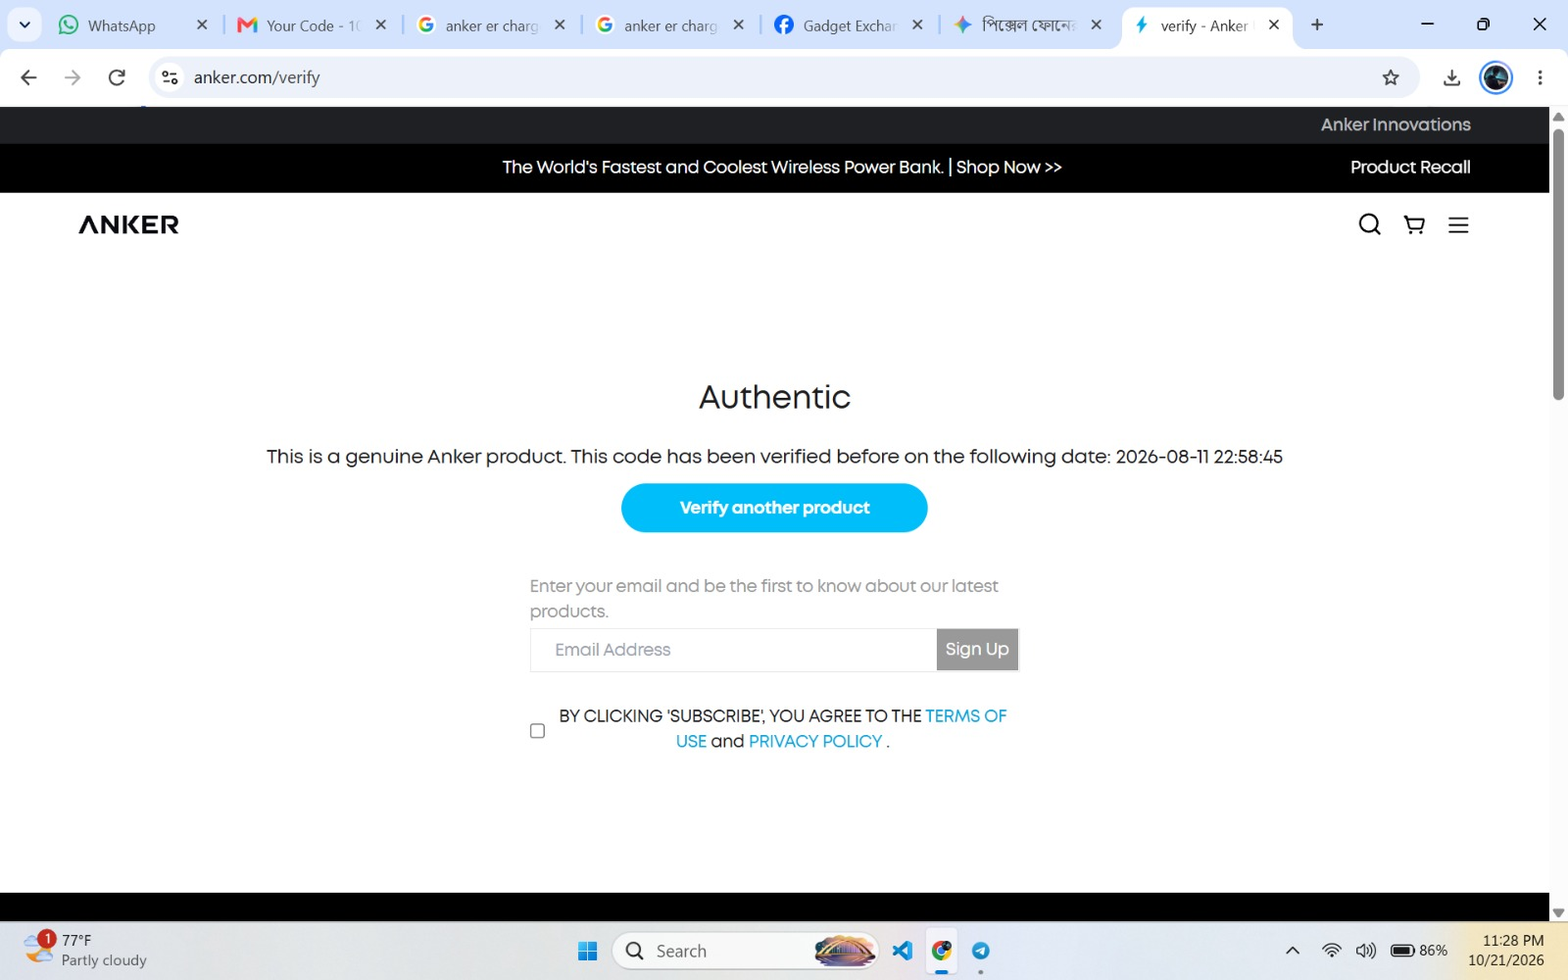
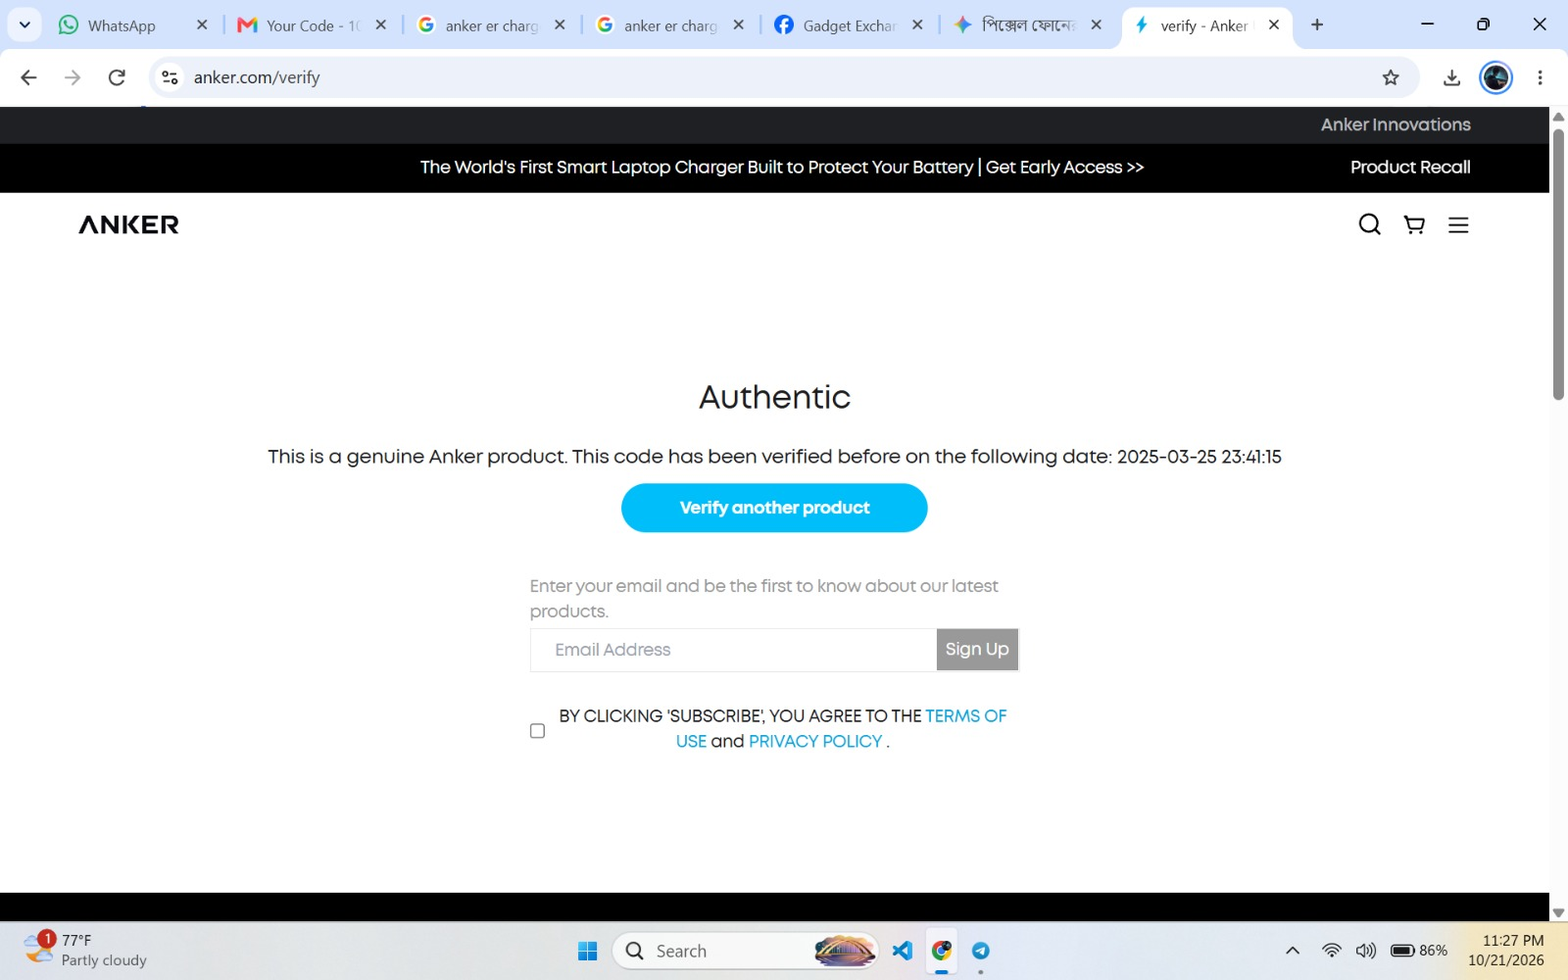
Crop photos, fix swapped Anker screenshots, add what the shop claimed

Changed region(s): [[0.1875, 0.434, 0.8125, 0.496], [0.2812, 0.155, 0.7188, 0.186]]

diff --git a/README.md b/README.md
@@ -1,14 +1,21 @@
 # Gadget Exchange Point (বসুন্ধরা সিটি): অভিযোগ ও প্রমাণ
 
-বসুন্ধরা সিটি শপিং মলের **Gadget Exchange Point** (বেসমেন্ট-২, দোকান নং ৪৭) থেকে ১৭ অক্টোবর ২০২৬ তারিখে একটি ব্যবহৃত Google Pixel 8a ফোন আর একটি Anker চার্জার কিনেছিলাম। কী ঘটেছে আর তার সব প্রমাণ এই পাতায় একসাথে রাখা হলো, যাতে যে কেউ নিজে দেখে বিচার করতে পারেন।
+১৭ অক্টোবর ২০২৬। বসুন্ধরা সিটি শপিং মলের **Gadget Exchange Point** (বেসমেন্ট-২, দোকান নং ৪৭)-এ একটি ব্যবহৃত Google Pixel 8a আর একটি Anker চার্জার দেখছিলাম। দোকান থেকে অনেক সময় নিয়ে, অনেক ভালো করে বুঝিয়ে বলা হলো: ফোনটা **১০০% অথেনটিক**, চার্জারটা **১০০% অরিজিনাল**, সাথে **১৮ মাসের অফিসিয়াল ওয়ারেন্টি**। এত নিশ্চিত হয়ে বলায় তাদের বিশ্বাস করেছিলাম, আর ৳৩০,৫০০ দিয়ে দুটোই কিনে ফেলি।
+
+বাসায় এসে নিজে যাচাই করতেই একের পর এক সত্য বেরিয়ে এল। পরে বুঝলাম, আমি প্রতারিত হয়েছি।
+
+কী ঘটেছে আর তার সব প্রমাণ এই পাতায় একসাথে রাখা হলো, যাতে যে কেউ নিজে দেখে বিচার করতে পারেন।
 
 — Md. Sishir Rahman Siam (ক্রেতা)
 
-## সংক্ষেপে
+## সংক্ষেপে: যা বলা হয়েছিল, আর যা পেলাম
 
-1. **বডি বদলানো ফোন।** দোকানের মেমোতে ফোনটি "White" লেখা। কিন্তু ফোনের হার্ডওয়্যার যে IMEI দেখায়, Google-এর রেকর্ডে সেটি **Pixel 8a Obsidian (কালো)**। অর্থাৎ কালো ফোনের ভেতরের অংশ সাদা বডিতে বসিয়ে বিক্রি করা হয়েছে, আর সেটা আমাকে জানানো হয়নি।
-2. **ফেরতের সময় ৳১,০০০ কেটে রাখা।** দোকানের ভুলে ফোন ফেরত দিতে হলেও ৳২৯,০০০-এর বদলে ফেরত দেওয়া হয়েছে ৳২৮,০০০।
-3. **আগেই যাচাই করা চার্জার।** "নতুন" Anker চার্জারের বক্সের scratch code আমার কেনার দুই মাসেরও বেশি আগে (১১ আগস্ট ২০২৬) Anker-এর সাইটে যাচাই করা হয়েছিল। চার্জারটি চীনের বাজারের, আর মুখে বলা ১৮ মাসের ওয়ারেন্টি মেমোতে লেখা নেই।
+| দোকান যা বলেছিল | যাচাই করে যা পেলাম |
+|---|---|
+| ফোন **১০০% অথেনটিক**, মেমোতে রঙ লেখা **"White"** | ফোনের মাদারবোর্ডের IMEI Google-এর রেকর্ডে **Pixel 8a Obsidian (কালো)**। কালো ফোনের ভেতরের অংশ সাদা বডিতে বসানো, যা আমাকে জানানো হয়নি। [প্রমাণ ↓](#অভিযোগ-১-বডি-বদলানো-ফোন-বিক্রি-হয়েছে-white-বলে) |
+| চার্জার **১০০% অরিজিনাল**, নতুন | Anker-এর সাইট বলছে চার্জারটি আসল। কিন্তু বক্সের scratch code আমার কেনার দুই মাসেরও বেশি আগে (১১ আগস্ট ২০২৬) কেউ যাচাই করে ফেলেছে। পণ্যটি চীনের বাজারের। [প্রমাণ ↓](#অভিযোগ-৩-আগেই-যাচাই-করা-চীনের-বাজারের-চার্জার) |
+| চার্জারে **১৮ মাসের অফিসিয়াল ওয়ারেন্টি** | মেমোতে কোনো ওয়ারেন্টি লেখা নেই, এমনকি দামও না। |
+| মেমোতে ছাপা: ১০ দিনের মধ্যে হার্ডওয়্যার সমস্যা হলে **রিপ্লেসমেন্ট** | রিপ্লেসমেন্ট হিসেবে যে ফোন দিতে চাইল, তার ব্যাক কভার নষ্ট। শেষে ফোন ফেরত নিয়ে ৳২৯,০০০-এর বদলে দিল ৳২৮,০০০, **৳১,০০০ কেটে রাখল**। [প্রমাণ ↓](#অভিযোগ-২-ফেরতের-সময়-১০০০-কেটে-রাখা) |
 
 ## দোকানের তথ্য
 
@@ -20,20 +27,20 @@
 | প্রোপ্রাইটর | Md. Monir Hosen (ভিজিটিং কার্ড অনুযায়ী) |
 | Facebook পেজ | [facebook.com/trustpoint2019](https://www.facebook.com/trustpoint2019) |
 
-<img src="evidence/shop/business-card.jpg" width="280" alt="Gadget Exchange Point-এর ভিজিটিং কার্ড">
+<img src="evidence/shop/business-card.jpg" width="360" alt="Gadget Exchange Point-এর ভিজিটিং কার্ড">
 
 ## ঘটনাক্রম
 
 | তারিখ | কী হয়েছে |
 |---|---|
-| ১৭ অক্টোবর ২০২৬ | Pixel 8a কিনি (মেমো নং ২৭৩১, ৳২৯,০০০)। সাথে Anker Zolo 30W চার্জার ও Google Type-C ক্যাবল (মেমো নং ১০১৪, ৳১,৫০০)। চার্জারের জন্য মুখে ১৮ মাসের অফিসিয়াল ওয়ারেন্টির কথা বলা হয়। |
+| ১৭ অক্টোবর ২০২৬ | দোকান অনেক বুঝিয়ে বলে, ফোন ১০০% অথেনটিক আর চার্জার ১০০% অরিজিনাল, সাথে চার্জারে ১৮ মাসের অফিসিয়াল ওয়ারেন্টি। বিশ্বাস করে Pixel 8a কিনি (মেমো নং ২৭৩১, ৳২৯,০০০)। সাথে Anker Zolo 30W চার্জার ও Google Type-C ক্যাবল (মেমো নং ১০১৪, ৳১,৫০০)। |
 | এরপর | ফোনের Fastboot barcode থেকে মাদারবোর্ডের IMEI বের করে Google Store-এ মিলাই। Google দেখায়, এই IMEI একটি **Pixel 8a Obsidian** (কালো) ফোনের। |
 | ১৯ অক্টোবর ২০২৬ | দোকানে প্রমাণ দেখাই। দোকান রিপ্লেসমেন্ট হিসেবে আরেকটি ফোন দিতে চায়, কিন্তু সেটিও ফ্রেশ ছিল না, ব্যাক কভার নষ্ট। শেষে দোকান ফোন ফেরত নিয়ে ৳২৮,০০০ নগদ ফেরত দেয়। কোনো রিসিট দেওয়া হয়নি, মূল মেমোও দোকান রেখে দেয়। |
 | ২১ অক্টোবর ২০২৬ | চার্জারের বক্সের কোড Anker-এর সাইটে যাচাই করি। দেখা যায় কোডগুলো আমার কেনার আগেই যাচাই করা হয়েছিল। |
 
 ## অভিযোগ ১: বডি বদলানো ফোন, বিক্রি হয়েছে "White" বলে
 
-ফোনটি যে ব্যবহৃত, তা মেমোতে লেখা ছিল। আমার অভিযোগ সেটা নিয়ে নয়। অভিযোগ হলো, ফোনের বডি (হাউজিং) বদলানো হয়েছে, আর সেটা জানানো হয়নি।
+দোকান আমাকে বলেছিল ফোনটা ১০০% অথেনটিক। ফোনটি যে ব্যবহৃত, তা মেমোতে লেখা ছিল, আমার অভিযোগ সেটা নিয়ে নয়। অভিযোগ হলো, ফোনের বডি (হাউজিং) বদলানো হয়েছে, আর সেটা জানানো হয়নি।
 
 তিনটি আলাদা উৎস একই কথা বলে:
 
@@ -43,39 +50,41 @@
 
 Pixel 8a চারটি রঙে আসে: Obsidian (কালো), Porcelain (সাদা), Bay (নীল), Aloe (সবুজ)। Google-এর রেকর্ডে ফোনটি Obsidian, অথচ আমার হাতে দেওয়া ফোনের বডি সাদা।
 
-**দোকানের মেমো (নং ২৭৩১)**
+**দোকানের মেমো (নং ২৭৩১): "White", IMEI 351163524193647**
 
-<img src="evidence/phone/01-invoice-no-2731.jpg" width="440" alt="ফোনের মেমো নং ২৭৩১">
+<img src="evidence/phone/01-invoice-no-2731-zoom-items.jpg" width="560" alt="মেমো নং ২৭৩১: Pixel 8A, White, IMEI 351163524193647">
 
-**ফোনের Fastboot barcode ও Fastboot Mode**
+[পুরো মেমো দেখুন](evidence/phone/01-invoice-no-2731.jpg)
 
-<img src="evidence/phone/02-fastboot-barcode-imei-serial.jpg" width="520" alt="Fastboot barcode: IMEI ও Serial">
+**ফোনের হার্ডওয়্যার: Fastboot barcode ও Fastboot Mode**
 
-<img src="evidence/phone/03-fastboot-mode-serial.jpg" width="280" alt="Fastboot Mode: Serial number">
+<img src="evidence/phone/02-fastboot-barcode-imei-serial.jpg" width="340" alt="Fastboot barcode: IMEI 351163524193647, Serial 45301JEKB08680"> <img src="evidence/phone/03-fastboot-mode-serial.jpg" width="340" alt="Fastboot Mode: Serial 45301JEKB08680">
 
 **Google Store-এ IMEI দিয়ে খোঁজ: "Pixel 8a Obsidian"**
 
-![Google Store: IMEI 351163524193647 = Pixel 8a Obsidian 128GB](evidence/phone/04-google-store-imei-lookup-obsidian.png)
+<img src="evidence/phone/04-google-store-imei-lookup-obsidian-crop.png" width="480" alt="Google Store: IMEI 351163524193647 = Pixel 8a Obsidian 128GB">
 
-**আমার Google অ্যাকাউন্টেও একই IMEI, কালো ফোন হিসেবে**
-
-ফোনটিতে আমার Google অ্যাকাউন্টে লগইন করেছিলাম, তাই এটি "Devices linked to this account"-এ দেখায়।
-
-![Google Store: Devices linked to this account](evidence/phone/05-google-store-linked-device-black.png)
+[পূর্ণ স্ক্রিনশট দেখুন](evidence/phone/04-google-store-imei-lookup-obsidian.png)
 
 **হাতে পাওয়া ফোন: সাদা বডি**
 
-<img src="evidence/phone/06-phone-back-white-body.jpg" width="280" alt="ফোনের পেছন: সাদা বডি"> <img src="evidence/phone/07-phone-front.jpg" width="280" alt="ফোনের সামনে">
+<img src="evidence/phone/05-phone-back-white-body.jpg" width="220" alt="ফোনের পেছন: সাদা বডি"> <img src="evidence/phone/06-phone-front.jpg" width="220" alt="ফোনের সামনে">
 
 ## অভিযোগ ২: ফেরতের সময় ৳১,০০০ কেটে রাখা
 
 - আমি দিয়েছি ৳২৯,০০০, ফেরত পেয়েছি ৳২৮,০০০ (নগদ, ১৯ অক্টোবর)। কোনো রিসিট দেওয়া হয়নি, মূল মেমোও দোকান রেখে দিয়েছে।
 - দোকানের মেমোতেই লেখা: *"১০ দিনের মধ্যে হার্ডওয়্যার (পার্টস জনিত) সমস্যা থাকলে কর্তৃপক্ষ সমাধান করতে না পারলে রিপ্লেসমেন্ট এর আওতাভুক্ত হবে।"* দোকান রিপ্লেসমেন্ট দিতে চেয়েছিল, কিন্তু যে ফোনটি দিতে চেয়েছিল সেটিও ফ্রেশ ছিল না, ব্যাক কভার নষ্ট।
+
+  <img src="evidence/phone/01-invoice-no-2731-zoom-replacement-clause.jpg" width="550" alt="মেমোর শর্ত: ১০ দিনের মধ্যে হার্ডওয়্যার সমস্যায় রিপ্লেসমেন্ট">
+
 - মেমোতে আরেকটি শর্ত আছে: *"ক্রয়কৃত মোবাইল এর মডেল পরিবর্তন বা টাকা ফেরত এর ক্ষেত্রে ২৫%-৩০% টাকা কর্তন করা হবে।"* আমার বক্তব্য: এই শর্ত ক্রেতা নিজে মত বদলালে খাটতে পারে। কিন্তু এখানে ফেরত হয়েছে দোকানের ভুল বর্ণনার কারণে, আর দোকান ঠিকঠাক রিপ্লেসমেন্টও দিতে পারেনি। তাই এই টাকা কাটার কোনো যুক্তি নেই।
+
+  <img src="evidence/phone/01-invoice-no-2731-zoom-refund-clause.jpg" width="570" alt="মেমোর শর্ত: টাকা ফেরতে ২৫%-৩০% কর্তন">
 
 ## অভিযোগ ৩: আগেই যাচাই করা, চীনের বাজারের চার্জার
 
-- মেমো নং ১০১৪-তে শুধু লেখা "Anker Zolo 30W (1)"। দাম বা ওয়ারেন্টির কোনো উল্লেখ নেই। দাম নেওয়া হয়েছে ৳১,৫০০ (Google Type-C ক্যাবলসহ)। মুখে বলা হয়েছিল ১৮ মাসের অফিসিয়াল ওয়ারেন্টি।
+- দোকান বলেছিল চার্জার ১০০% অরিজিনাল, সাথে ১৮ মাসের অফিসিয়াল ওয়ারেন্টি। Anker-এর সাইটও একে "Authentic" বলছে, অর্থাৎ এটা নকল নয়। সমস্যা অন্য জায়গায়, নিচে দেখুন।
+- মেমো নং ১০১৪-তে শুধু লেখা "Anker Zolo 30W (1)"। দাম বা ওয়ারেন্টির কোনো উল্লেখ নেই। দাম নেওয়া হয়েছে ৳১,৫০০ (Google Type-C ক্যাবলসহ)।
 - বক্সের **scratch code** [anker.com/verify](https://www.anker.com/verify)-এ যাচাই করলে দেখায়: *"This code has been verified before on the following date: 2026-08-11 22:58:45"*। আমি কিনেছি ১৭ অক্টোবর। তার দুই মাসেরও বেশি আগে কেউ এই কোড যাচাই করেছে।
 - বক্সের **QR code**-এর কোডও আগেই যাচাই করা: *2025-03-25 23:41:15*।
 - এটা ইঙ্গিত দেয় যে চার্জারটি "নতুন" হিসেবে বিক্রির আগেই খোলা বা ব্যবহার করা হয়েছিল।
@@ -83,23 +92,31 @@ Pixel 8a চারটি রঙে আসে: Obsidian (কালো), Porcelain
 
 **চার্জারের মেমো (নং ১০১৪): দাম বা ওয়ারেন্টি লেখা নেই**
 
-<img src="evidence/charger/01-cash-memo-no-1014.jpg" width="320" alt="চার্জারের মেমো নং ১০১৪">
+<img src="evidence/charger/01-cash-memo-no-1014.jpg" width="340" alt="চার্জারের মেমো নং ১০১৪">
 
 **Scratch code: আগেই যাচাই করা, ২০২৬-০৮-১১**
 
-![anker.com/verify: scratch code verified before on 2026-08-11](evidence/charger/02-anker-verify-scratch-code-2026-08-11.jpg)
+<img src="evidence/charger/02-anker-verify-scratch-code-2026-08-11-crop.jpg" width="640" alt="anker.com/verify: scratch code verified before on 2026-08-11">
+
+যাচাই করেছি ২১ অক্টোবর ২০২৬, রাত ১১:২৮। [পূর্ণ স্ক্রিনশট দেখুন](evidence/charger/02-anker-verify-scratch-code-2026-08-11.jpg) (নিচে তারিখ-সময় দেখা যায়)
 
 **QR code: আগেই যাচাই করা, ২০২৫-০৩-২৫**
 
-![anker.com/verify: QR code verified before on 2025-03-25](evidence/charger/03-anker-verify-qr-code-2025-03-25.jpg)
+<img src="evidence/charger/03-anker-verify-qr-code-2025-03-25-crop.jpg" width="640" alt="anker.com/verify: QR code verified before on 2025-03-25">
 
-**বক্স: সামনে সিকিউরিটি লেবেল, পেছনে চাইনিজ লেবেল (১৮个月质保)**
+যাচাই করেছি ২১ অক্টোবর ২০২৬, রাত ১১:২৭। [পূর্ণ স্ক্রিনশট দেখুন](evidence/charger/03-anker-verify-qr-code-2025-03-25.jpg)
 
-<img src="evidence/charger/04-box-front-security-label.jpg" width="280" alt="বক্সের সামনে: Scratch and Check লেবেল"> <img src="evidence/charger/05-box-back-china-label.jpg" width="280" alt="বক্সের পেছনে: চাইনিজ লেবেল">
+**বক্স: সামনে সিকিউরিটি লেবেল, পেছনে চাইনিজ লেবেল**
+
+<img src="evidence/charger/04-box-front-security-label.jpg" width="220" alt="বক্সের সামনে: Scratch and Check লেবেল"> <img src="evidence/charger/05-box-back-china-label.jpg" width="264" alt="বক্সের পেছনে: চাইনিজ লেবেল">
+
+লেবেলের কাছ থেকে: মডেল A2698, 产地 (উৎপাদন): 中国 (চীন), 保修时间 (ওয়ারেন্টি): 18个月质保 (১৮ মাস)
+
+<img src="evidence/charger/05-box-back-china-label-zoom.jpg" width="550" alt="বক্সের লেবেল: A2698, 18个月质保">
 
 **চার্জার: চাইনিজ ফ্ল্যাট-পিন প্লাগ**
 
-<img src="evidence/charger/06-charger-front.jpg" width="280" alt="চার্জারের সামনে"> <img src="evidence/charger/07-charger-back-china-plug.jpg" width="280" alt="চার্জারের পেছনে: চাইনিজ প্লাগ">
+<img src="evidence/charger/06-charger-front.jpg" width="220" alt="চার্জারের সামনে"> <img src="evidence/charger/07-charger-back-china-plug.jpg" width="220" alt="চার্জারের পেছনে: চাইনিজ প্লাগ">
 
 ## এই ফোনটি চিনে রাখুন
 
@@ -128,11 +145,16 @@ Pixel 8a চারটি রঙে আসে: Obsidian (কালো), Porcelain
 - **ওয়ারেন্টি ও দাম:** মুখের কথায় ভরসা না করে মেমোতে লিখিয়ে নিন।
 - **টাকা ফেরতের শর্ত:** সই করার আগে মেমোর নিচের শর্তগুলো পড়ে নিন।
 
+## শেষ কথা
+
+দোকানের কথায় বিশ্বাস করেছিলাম, কারণ তারা অনেক বুঝিয়ে, অনেক নিশ্চিত হয়ে বলেছিল। বসুন্ধরা সিটির মতো নামকরা শপিং মলে এমন অভিজ্ঞতা কারও হওয়া উচিত নয়। "১০০% অথেনটিক" বা "১০০% অরিজিনাল" শুনেই বিশ্বাস করবেন না, নিজে যাচাই করে তারপর কিনুন।
+
+**এই পাতাটি শেয়ার করুন, যাতে আর কেউ একইভাবে না ঠকেন।**
+
 ## ছবি সম্পর্কে
 
-সব ছবি আসল। শুধু দুই জায়গা ঢাকা হয়েছে:
+সব ছবি আসল। পড়তে সুবিধার জন্য কিছু ছবি ক্রপ করা, আর Fastboot barcode-এর ছবিটা সোজা করে ঘোরানো হয়েছে। স্ক্রিনশট ও মেমোর পূর্ণ ছবি লিংকে দেওয়া আছে।
 
-- মেমো নং ২৭৩১-এ আমার মোবাইল নম্বর।
-- `05-google-store-linked-device-black.png`-এর ওপরের অংশে অন্য একটি ডিভাইসের সার্চ, যার এই ঘটনার সাথে কোনো সম্পর্ক নেই।
+শুধু একটি জিনিস ঢাকা হয়েছে: মেমো নং ২৭৩১-এ আমার মোবাইল নম্বর।
 
 মূল, না-ঢাকা ছবিগুলো আমার কাছে আছে। দরকার হলে কর্তৃপক্ষকে দেখাতে পারব।
